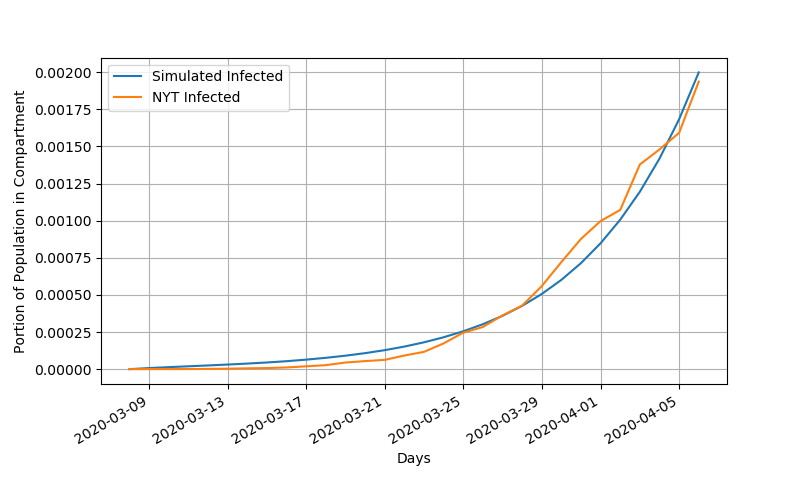
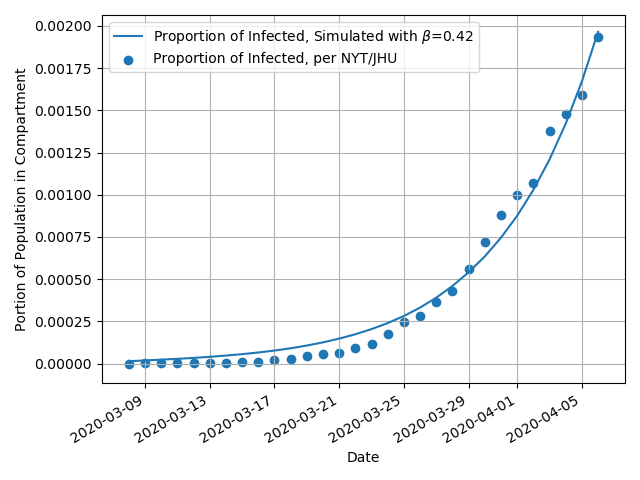
final parameter estimate, working on discrete optimization

diff --git a/parameter_estimation.py b/parameter_estimation.py
@@ -1,14 +1,12 @@
 # Parameter Estimation
 
-import glob
 import matplotlib.pyplot as plt
 import numpy
 import os
 import pandas
 import scipy
 import scipy.integrate
-import sympy
-pandas.set_option('display.max_rows', None)
+# pandas.set_option('display.max_rows', None)
 # pandas.set_option('display.max_columns', None)
 
 # GLOBAL CONSTANTS
@@ -25,6 +23,7 @@ beds = 8798 # Number of hospital beds available
 icub = 674 # Number of ICU beds available
 
 def estimate():
+
     nyt = pandas.read_csv('data/nytimes.csv')
     nytct = nyt[(nyt.state == "Connecticut")].copy()
     nytct['date'] = pandas.to_datetime(nytct['date'])
@@ -33,62 +32,29 @@ def estimate():
     nytct = nytct.reset_index()
     nytct.index += 0
 
-    if os.path.isfile('data/jhuct.pkl'):
-        # print("Reading saved JHU data")
-        jhuct = pandas.read_pickle('data/jhuct.pkl')
-    else:
-        filelist = os.listdir('data/csse')
-        filelist.sort()
-        jhuct = pandas.DataFrame()
-        for file in filelist:
-            jhu = pandas.read_csv('data/csse/' + file)
-            jhuct = jhuct.append(jhu[(jhu.Province_State == "Connecticut")])
-        jhuct.to_pickle('data/jhuct.pkl')
-    jhuct['date'] = pandas.to_datetime(jhuct['Last_Update'])
+    # if os.path.isfile('data/jhuct.pkl'):
+    #     # print("Reading saved JHU data")
+    #     jhuct = pandas.read_pickle('data/jhuct.pkl')
+    # else:
+    #     filelist = os.listdir('data/csse')
+    #     filelist.sort()
+    #     jhuct = pandas.DataFrame()
+    #     for file in filelist:
+    #         jhu = pandas.read_csv('data/csse/' + file)
+    #         jhuct = jhuct.append(jhu[(jhu.Province_State == "Connecticut")])
+    #     jhuct.to_pickle('data/jhuct.pkl')
+    # jhuct['date'] = pandas.to_datetime(jhuct['Last_Update'])
 
     # ODE VARIABLES
-    tf = 360
+    tf = 30
     dt = 1
     tspan = [0, tf]
     teval = numpy.arange(0, tf, dt)
+    targs = [tf, dt, tspan, teval]
 
-    # SEARCH FOR SMALLEST ERROR IN SIMULATIONS
-    base_error = 10
-    for beta in ranger(0.1, 0.5, 0.01):
-        for e in ranger(0, 1000, 50):
-            for i in ranger(0, 1000, 50):
-
-                # INITIAL CONDITIONS
-                e0 = e/N        # Exposed
-                i0 = i/N        # Active Infected
-                r0 = 0/N        # Recovered
-                s0 = 1-e0-i0-r0 # Susceptible
-
-                # INIT
-                init = [s0, e0, i0, r0, beta]
-
-                # SOLVE ODE
-                solution = scipy.integrate.solve_ivp(rhs, tspan, init, t_eval=teval)
-                solution = numpy.c_[numpy.transpose(solution['y'])]
-                seir = pandas.DataFrame(data=solution)
-                seir['date'] = pandas.date_range(start='3/8/2020', periods=len(seir), freq='D')
-                seir.columns = ['susceptible', 'exposed', 'infected', 'recovered', 'beta', 'date']
-
-                error = (nytct['cases']/N).head(tf).subtract(seir['infected']).abs().sum()
-                if (error < base_error):
-                    base_error = error
-                    betasearch = beta
-                    esearch = e
-                    isearch = i
-
-    # Now that we have refined, print and show
-    print(betasearch)
-    print(esearch)
-    print(isearch)
-
-    # esearch = 150
-    # isearch = 0
-    # betasearch = 0.45
+    # (betasearch, esearch, isearch) = search(targs, nytct)
+    (betasearch, esearch, isearch) = (0.42, 100, 50)
+    print(betasearch, esearch, isearch)
 
     # INITIAL CONDITIONS
     e0 = esearch/N  # Exposed
@@ -107,16 +73,17 @@ def estimate():
     seir.columns = ['susceptible', 'exposed', 'infected', 'recovered', 'beta', 'date']
 
     fig = plt.figure()
-    plt.xlabel("Days")
+    plt.xlabel("Date")
     plt.ylabel("Portion of Population in Compartment")
     plt.grid(True)
-    plt.plot(seir['date'], seir['susceptible'], label='Susceptible')
-    plt.plot(seir['date'], seir['exposed'], label='Exposed')
-    plt.plot(seir['date'], seir['infected'], label='Simulated Infected')
-    plt.plot(seir['date'], seir['recovered'], label='Recovered')
-    plt.plot(nytct['date'].head(tf), nytct['cases'].head(tf)/N, label='NYT Infected')
+    # plt.plot(seir['date'], seir['susceptible'], label='Susceptible')
+    # plt.plot(seir['date'], seir['exposed'], label='Exposed')
+    plt.plot(seir['date'], seir['infected'], label=r'Proportion of Infected, Simulated with $\beta$=0.42')
+    # plt.plot(seir['date'], seir['recovered'], label='Recovered')
+    plt.scatter(nytct['date'].head(tf), nytct['cases'].head(tf)/N, label='Proportion of Infected, per NYT/JHU')
     plt.gcf().autofmt_xdate()
     plt.legend()
+    plt.tight_layout()
     plt.show()
 
 def rhs(dt, init):
@@ -136,10 +103,43 @@ def rhs(dt, init):
 
     return [sdot, edot, idot, rdot, 0]
 
-def ranger(start, end, step):
-    while start <= end:
-        yield start
-        start += step
+def search(targs, comparison_data):
+    tf = targs[0]
+    dt = targs[1]
+    tspan = targs[2]
+    teval = targs[3]
+
+    # SEARCH FOR SMALLEST ERROR IN SIMULATIONS
+    base_error = 10
+    for beta in numpy.arange(0.1, 0.6, 0.01):
+        for e in numpy.arange(0, 2000, 50):
+            for i in numpy.arange(0, 2000, 50):
+                print(beta, e, i)
+                # INITIAL CONDITIONS
+                e0 = e/N        # Exposed
+                i0 = i/N        # Active Infected
+                r0 = 0/N        # Recovered
+                s0 = 1-e0-i0-r0 # Susceptible
+
+                # INIT
+                init = [s0, e0, i0, r0, beta]
+
+                # SOLVE ODE
+                solution = scipy.integrate.solve_ivp(rhs, tspan, init, t_eval=teval)
+                solution = numpy.c_[numpy.transpose(solution['y'])]
+                seir = pandas.DataFrame(data=solution)
+                seir['date'] = pandas.date_range(start='3/8/2020', periods=len(seir), freq='D')
+                seir.columns = ['susceptible', 'exposed', 'infected', 'recovered', 'beta', 'date']
+
+                error = (((comparison_data['cases']/N).head(tf).subtract(seir['infected']))**2).sum()
+                if (error < base_error):
+                    print("New Minimum Error")
+                    base_error = error
+                    betasearch = beta
+                    esearch = e
+                    isearch = i
+
+    return(betasearch, esearch, isearch)
 
 if __name__ == "__main__":
     estimate()

diff --git a/seir.py b/seir.py
@@ -36,11 +36,11 @@ def main():
     m.time = numpy.arange(0, tf, dt)
 
     # Define variables and initial value for GEKKO Model
-    m.beta = m.MV(value=0.175, lb=0, ub=1)
-    m.s = m.SV(value=(N-250-360-400)/N, lb=0, ub=1)
-    m.e = m.CV(value=250/N, lb=0, ub=1)
-    m.i = m.CV(value=360/N, lb=0, ub=1)
-    m.r = m.SV(value=400/N, lb=0, ub=1)
+    m.beta = m.MV(value=0.42, lb=0, ub=1)
+    m.s = m.SV(value=(N-100-50-0)/N, lb=0, ub=1)
+    m.e = m.CV(value=100/N, lb=0, ub=1)
+    m.i = m.CV(value=50/N, lb=0, ub=1)
+    m.r = m.SV(value=0/N, lb=0, ub=1)
 
     m.Equation( m.s.dt() == delta - (m.beta*m.s*m.i) - (mu*m.s) )
     m.Equation( m.e.dt() == (m.beta*m.s*m.i) - (sigma*m.e) - (mu*m.e) )
@@ -62,18 +62,20 @@ def main():
     m.s.FSTATUS = 1
     m.e.STATUS = 1
     m.e.FSTATUS = 0
-    m.e.SPHI = 0.05
-    m.e.SPLO = 0
+    # TODO: Setpoint can't be changed too quickly.
+    # TODO: Discrete optimization
+    m.e.SPHI = 0.1
+    m.e.SPLO = 0.05
     m.i.STATUS = 1
     m.i.FSTATUS = 1
-    m.i.SPHI = 0.05
-    m.i.SPLO = 0
+    m.i.SPHI = 0.1
+    m.i.SPLO = 0.05
     m.r.FSTATUS = 1
 
     # MODEL OPTIONS
     m.options.CV_TYPE = 1
-    m.options.IMODE = 6
-    m.options.SOLVER = 3
+    m.options.IMODE = 6 # CONTROL
+    m.options.SOLVER = 3 # IPOPT (Interior Point Optimizer)
 
     #   ___     __| |   ___
     #  / _ \   / _` |  / _ \
@@ -81,12 +83,12 @@ def main():
     #  \___/   \__,_|  \___|
 
     # Define initial values for ODE solver
-    s0 = (N-360-250-400)/N  # Susceptible []
-    e0 = 250/N              # Exposed []
-    i0 = 360/N              # Active Infected []
-    isp = 0.1               # Active Infected Setpoint (under 10% of population)
-    r0 = 400/N              # Recovered []
-    beta0 = 0.175
+    s0 = (N-100-50-0)/N  # Susceptible []
+    e0 = 100/N              # Exposed []
+    i0 = 50/N              # Active Infected []
+    isp = 0.15               # Active Infected Setpoint (under 10% of population)
+    r0 = 0/N              # Recovered []
+    beta0 = 0.42
 
     t = numpy.arange(0, tf, dt)
 
@@ -117,7 +119,7 @@ def main():
         i[ind+1] = sol['y'][2][-1]
         r[ind+1] = sol['y'][3][-1]
 
-        if ind%60 == 0:
+        if ind%30 == 0:
             m.e.MEAS = e[ind+1]
             m.i.MEAS = i[ind+1]
             m.solve(disp=True)
